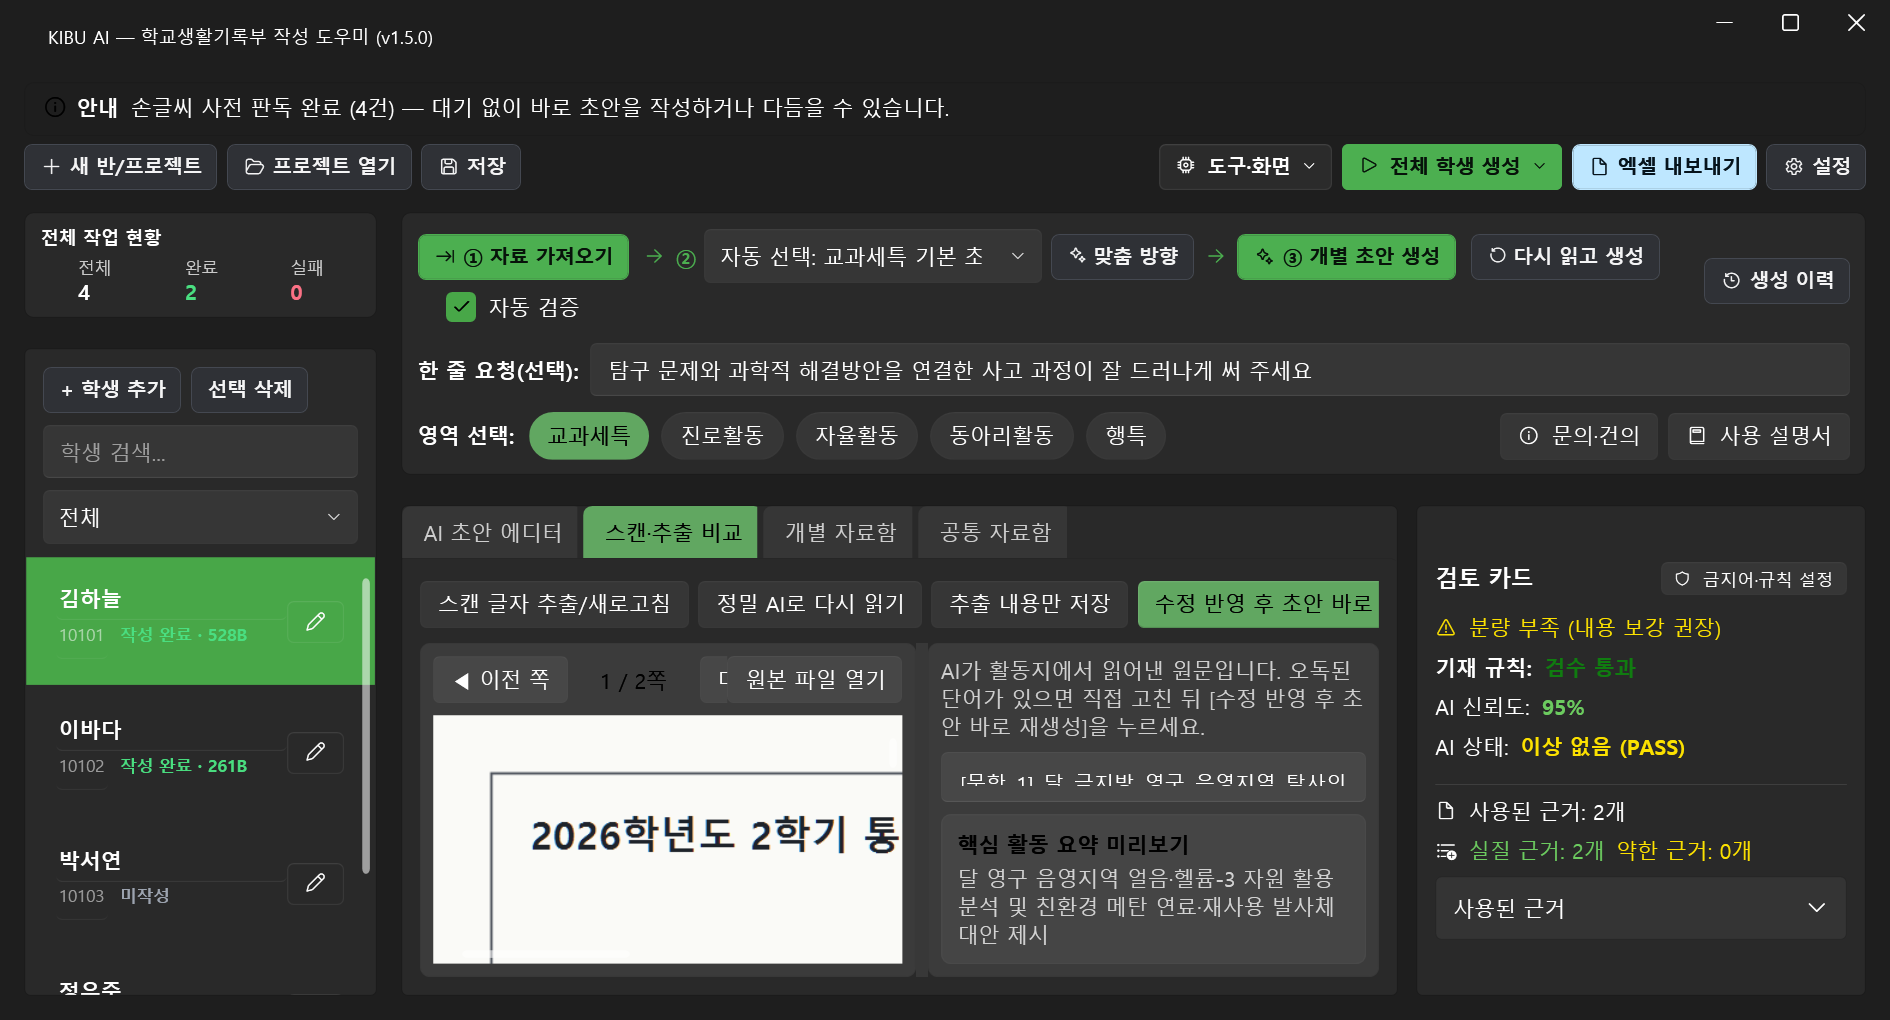
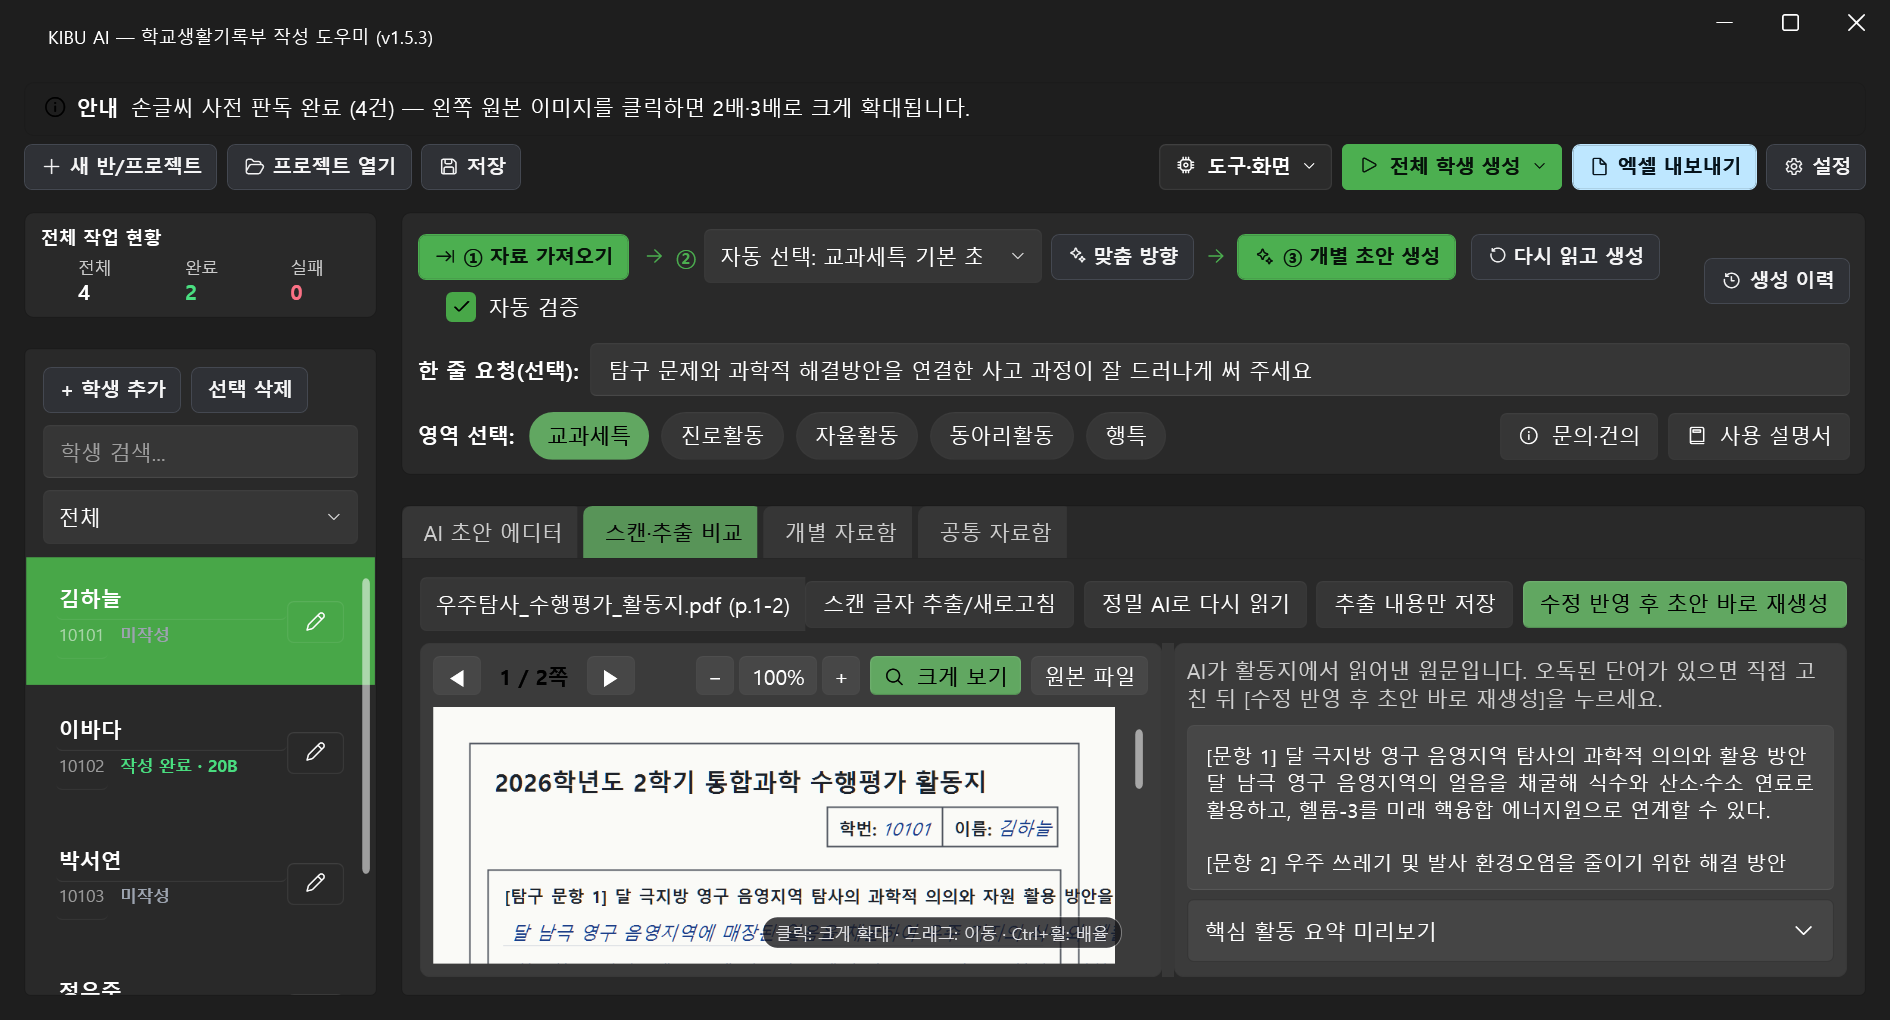
docs: v1.5.3 스캔 확대 뷰어·맞춤 프롬프트 한눈에 보기·Gemini 4 Hydrogen 반영

Changed region(s): [[0.2185, 0.5471, 0.9989, 0.9725], [0.2185, 0.0912, 0.4995, 0.1216], [0.0624, 0.6078, 0.1249, 0.6382]]

diff --git a/docs/manual.html b/docs/manual.html
@@ -256,7 +256,7 @@
                         <p>스캔 자료를 저장하면 메인 화면 상단에 <strong>초록색 진행 배지(예: <code>스캔 손글씨 사전 판독 중 12/30건</code>)</strong>가 나타납니다. 선생님이 작성 방향을 고르시는 동안 뒤에서 미리 글자를 읽어 두어 대기 시간을 확 줄여 줍니다. <em>(다 끝날 때까지 기다리지 않고 바로 초안 생성을 누르셔도 괜찮습니다!)</em></p>
                         <div class="mockup-frame">
                             <div class="mockup-header"><div class="dot"></div><div class="dot"></div><div class="dot"></div></div>
-                            <img src="../img/25_스캔추출_비교화면.png?v=150" alt="스캔 원본과 AI 추출 원문 비교 탭">
+                            <img src="../img/25_스캔추출_비교화면.png?v=153" alt="스캔 원본과 AI 추출 원문 비교 탭">
                         </div>
                         <ul>
                             <li><strong>원본과 읽힌 글 나란히 확인:</strong> 중앙의 <strong>[스캔·추출 비교]</strong> 탭을 누르면 왼쪽에는 활동지 스캔 원본이, 오른쪽에는 AI가 읽어낸 글자가 그대로 보입니다.</li>
@@ -270,7 +270,7 @@
                         <p>그냥 기본 설정으로 생성하셔도 훌륭한 초안이 나오지만, 이번 수행평가에서 특별히 강조하고 싶은 결이 있다면 두 가지 방법으로 아주 쉽게 지정할 수 있습니다.</p>
                         <div class="mockup-frame">
                             <div class="mockup-header"><div class="dot"></div><div class="dot"></div><div class="dot"></div></div>
-                            <img src="../img/04_맞춤프롬프트_설정.png?v=151" alt="범교과 5대 핵심 방향 맞춤 프롬프트">
+                            <img src="../img/04_맞춤프롬프트_설정.png?v=153" alt="범교과 5대 핵심 방향 맞춤 프롬프트">
                         </div>
                         <ul>
                             <li><strong>① [맞춤 방향] 버튼의 5가지 프리셋:</strong> 과목에 상관없이 쓸 수 있는 5가지 대표 방향(<code>개념 적용·심화 탐구</code> / <code>비판적 분석·문제해결</code> / <code>창의 표현·산출물 완성</code> / <code>협력 소통·자기주도 성장</code> / <code>핵심 사실·역량 집약</code>) 중 하나만 누르고 <strong>[저장 후 바로 적용]</strong>을 누르세요.</li>

diff --git a/features.html b/features.html
@@ -108,7 +108,7 @@
                 <div class="col-lg-7 mt-5 mt-lg-0" data-aos="fade-right">
                     <div class="mockup-frame">
                         <div class="mockup-header"><div class="dot"></div><div class="dot"></div><div class="dot"></div></div>
-                        <img src="img/25_스캔추출_비교화면.png?v=150" alt="스캔 원본과 추출 글자 나란히 비교 화면" data-ph onerror="this.onerror=null;this.src='img/placeholder.svg'">
+                        <img src="img/25_스캔추출_비교화면.png?v=153" alt="스캔 원본과 추출 글자 나란히 비교 화면" data-ph onerror="this.onerror=null;this.src='img/placeholder.svg'">
                     </div>
                 </div>
             </div>
@@ -139,7 +139,7 @@
                 <div class="col-lg-7 mt-5 mt-lg-0" data-aos="fade-left">
                     <div class="mockup-frame">
                         <div class="mockup-header"><div class="dot"></div><div class="dot"></div><div class="dot"></div></div>
-                        <img src="img/04_맞춤프롬프트_설정.png?v=151" alt="5대 핵심 방향 맞춤 프롬프트 화면" data-ph onerror="this.onerror=null;this.src='img/placeholder.svg'">
+                        <img src="img/04_맞춤프롬프트_설정.png?v=153" alt="5대 핵심 방향 맞춤 프롬프트 화면" data-ph onerror="this.onerror=null;this.src='img/placeholder.svg'">
                     </div>
                 </div>
             </div>

diff --git a/index.html b/index.html
@@ -299,7 +299,7 @@
                     <div class="download-card p-5 text-center">
                         <div class="d-inline-flex align-items-center gap-2 bg-dark bg-opacity-25 px-3 py-1 rounded-pill mb-4">
                             <span class="badge bg-success">최신 버전</span>
-                            <span class="small version-pill">26.11.13 · v1.5.2</span>
+                            <span class="small version-pill">26.11.13 · v1.5.3</span>
                         </div>
                         <div class="d-grid gap-3 d-sm-flex justify-content-center mb-4">
                             <a href="https://github.com/KibuAI/Kibu-site/releases/latest/download/KibuBeta-win-Setup.exe" class="btn btn-primary-c btn-lg px-4 text-nowrap"><i class="bi bi-download me-2"></i> Windows용 설치 파일 다운로드</a>
